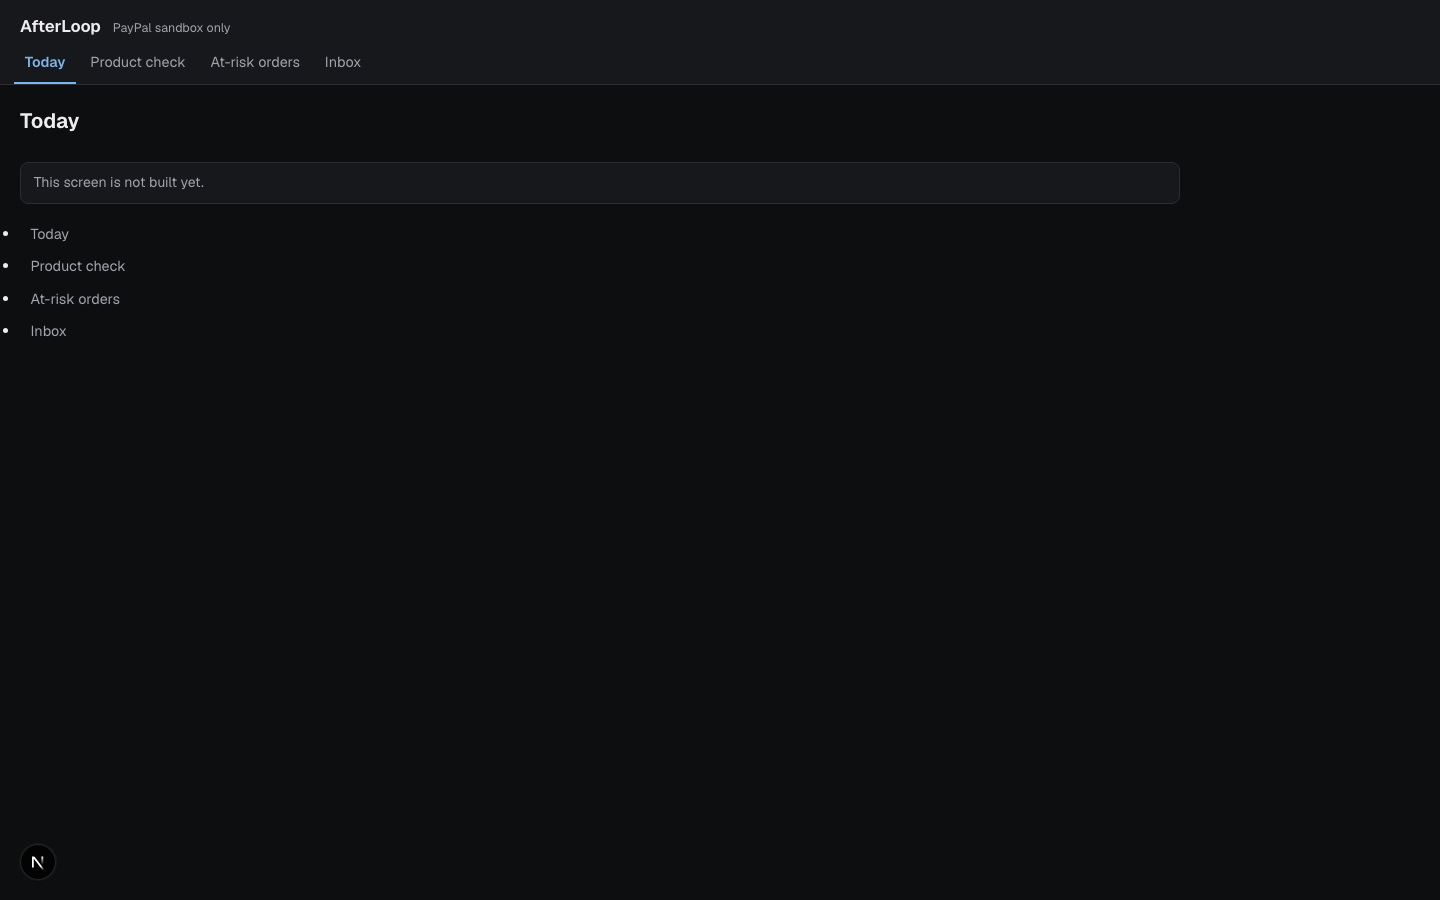
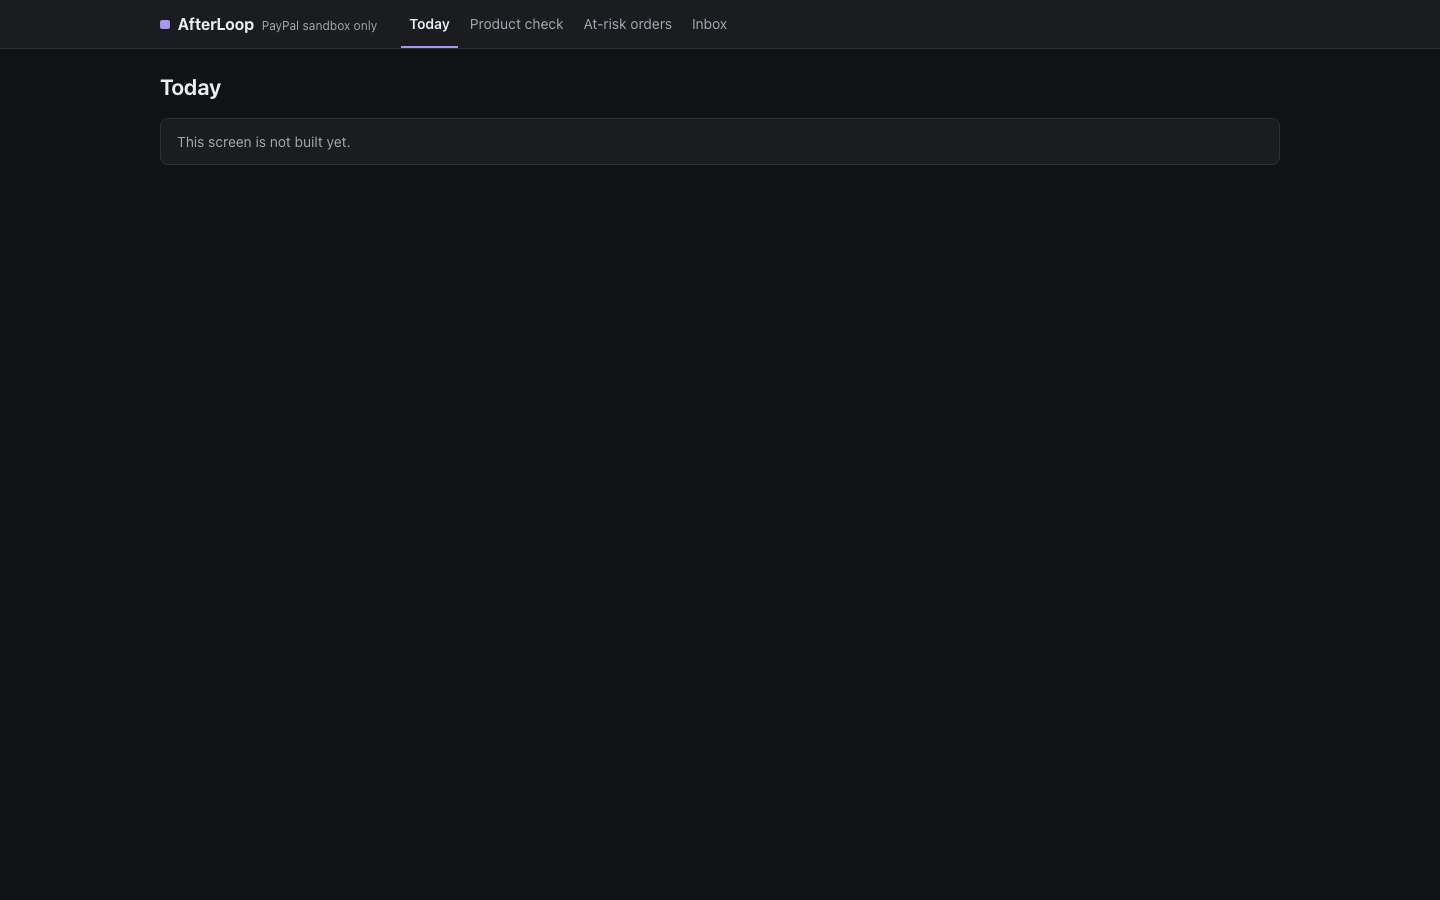
T047 screenshots round 2 (design baseline): 1440 light/dark, 390 light, styleguide - UI code still not merged

diff --git a/reports/screens/T047/README.md b/reports/screens/T047/README.md
@@ -1,17 +1,19 @@
-# T047 화면 공용 뼈대 — 스크린샷 (병합 전 확인용)
+# T047 화면 공용 뼈대 — 스크린샷 (병합 전 확인용, 2차)
 
-찍은 대상: `lane/ui` 커밋 `453812b` (main에 병합하지 않은 상태). 개발 서버(`next dev`)로 띄워 헤드리스 Chrome으로 찍었다. 오른쪽 아래의 동그란 "N"은 Next.js 개발 서버 표시이고 배포 화면에는 없다.
+찍은 대상: `lane/ui` 커밋 `7f289fb` (디자인 기준 보완 뒤. **main에 병합하지 않은 상태**). 배포용 빌드(`next build` → `next start`)로 띄워 찍었다 — 개발 서버 표시("N")가 없다.
 
-| 파일 | 폭 × 높이 | 모드 |
-|---|---|---|
-| `desktop-1440-light.png` | 1440 × 900 | 밝은 모드 |
-| `desktop-1440-dark.png` | 1440 × 900 | 어두운 모드 (`prefers-color-scheme: dark`) |
-| `narrow-390-light.png` | 390 × 844 | 밝은 모드 |
-| `narrow-390-dark.png` | 390 × 844 | 어두운 모드 |
+| 파일 | 화면 | 폭 | 모드 |
+|---|---|---|---|
+| `desktop-1440-light.png` | 첫 화면 | 1440 × 900 | 밝은 모드 |
+| `desktop-1440-dark.png` | 첫 화면 | 1440 × 900 | 어두운 모드 |
+| `narrow-390-light.png` | 첫 화면 | 390 뷰포트 (그림은 528 × 1144, 약 1.35배) | 밝은 모드 |
+| `styleguide-1440-light.png` | 견본 화면 `/preview/styleguide` | 1440 × 1500 | 밝은 모드 |
+| `styleguide-1440-dark.png` | 견본 화면 (덤) | 1440 × 1500 | 어두운 모드 |
+| `styleguide-390-light.png` | 견본 화면 (덤, 위쪽만) | 390 뷰포트 | 밝은 모드 |
 
-## 아직 없는 것
-- **배지가 보이는 화면**: 이 커밋에는 배지를 그리는 화면이 없다 (배지 부품만 있다). 그리고 `cached` 배지는 아직 만들지 않았다 (지금 있는 것: Demo data / Assumption / AI suggests / Code decides / 위험 구간 3종). 보완 작업 뒤 `badges-*.png`를 추가한다.
+견본 화면에 있는 것: 큰 숫자 비교 카드(환불 $74 → 답장 $37 — 두 값은 엔진이 계산), 배지 5종(AI suggests / Code decides / Demo data / Assumption / cached), 위험 단계 3종(High / Watch / Low), 카드 규칙, 글자 크기 단계, 색.
 
-## 눈에 띈 것 (컨트롤 타워 메모)
-- 좁은 폭(390)에서 "This screen is not built yet." 상자가 오른쪽 끝에서 잘린다.
-- 본문 아래에 메뉴와 같은 목록이 점 목록으로 한 번 더 나오고, 점이 왼쪽 여백 밖에 붙어 있다.
+## 찍은 방법과 정정
+- 1440 폭은 헤드리스 Chrome으로 찍었다.
+- **390 폭은 앱 안 브라우저의 390 × 844 뷰포트로 찍었다.** 헤드리스 Chrome은 창 폭을 약 500 아래로 줄이지 못해서, 1차 때 올린 390 스크린샷은 500 폭으로 그린 화면의 왼쪽 390만 잘라 낸 것이었다. **1차에서 "390에서 상자가 잘린다"고 한 것은 이 캡처 방식 탓일 수 있다** (1차 코드의 실제 390 모습은 확인하지 못했다). 지금 코드는 390 뷰포트에서 가로 넘침이 없다 (문서 폭 390 = 뷰포트 390, 카드 왼쪽 16 · 오른쪽 374).
+- 1차 스크린샷 4장은 지웠다 (git 기록 `44d49be`에 남아 있다).
